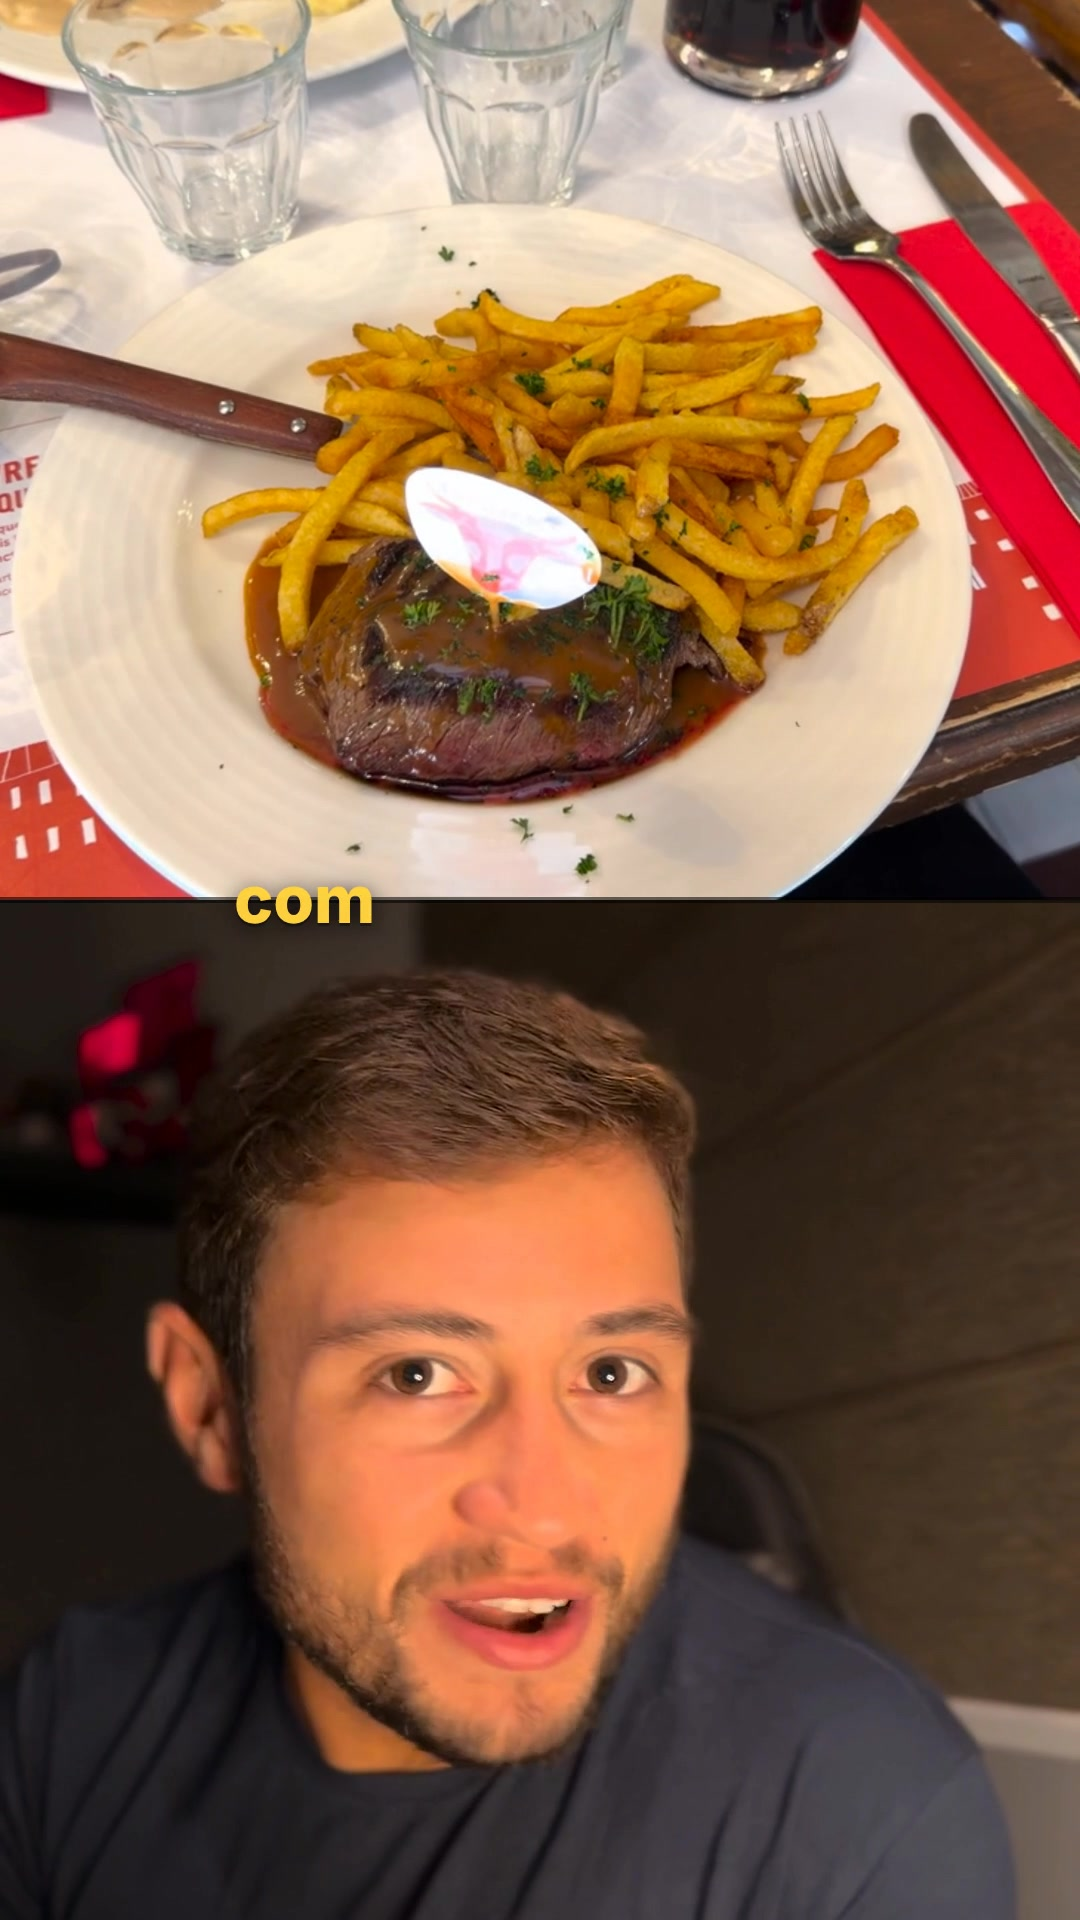
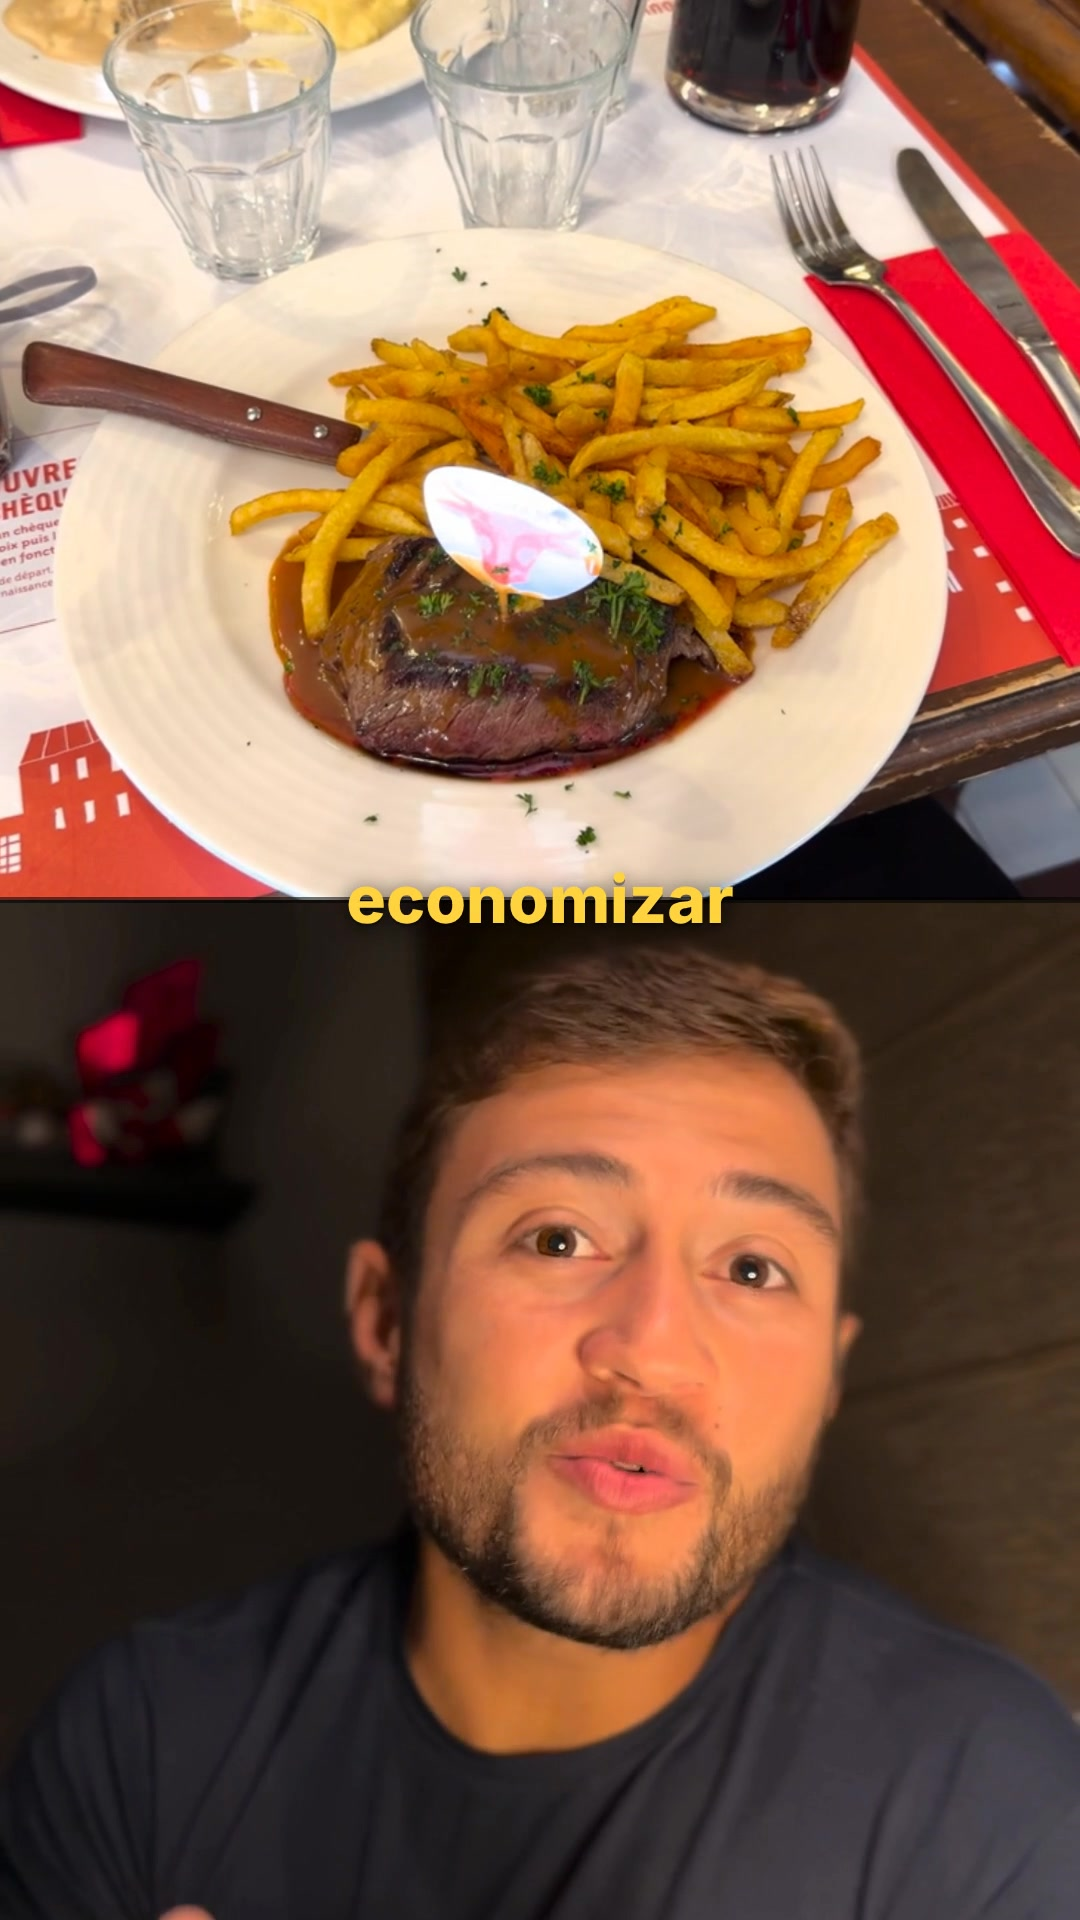
Reel "3 formas de economizar com comida" REV2: capa e legendas do post
Claude-Session: https://claude.ai/code/session_01TJN9nsuiCRpfC3La3sDmsz

diff --git a/reels/comida-3-regras/rev2/legenda_post.md b/reels/comida-3-regras/rev2/legenda_post.md
@@ -1,8 +1,9 @@
-# Legendas · 3 formas de economizar com comida na viagem · REV1
+# Legendas · 3 formas de economizar com comida na viagem · REV2
 
 **CTA único:** seguir (pedido do Diego). A primeira linha reforça o gancho; palavras-chave de busca: economizar, comida, viagem, Europa, restaurante, café da manhã, comida de rua, orçamento.
 **Valores:** os 50 € são exemplo ("vamos supor"), como no vídeo. Nenhum preço real da viagem entra aqui: os valores do acervo estão em `acervo/CORTES_DE_CUSTO.md` e ainda não foram revisados.
-**Imagens:** todas do acervo do Diego (Paris, Lisboa, Amsterdam, Bruges). Sem crédito de terceiros.
+**Imagens:** todas do acervo do Diego (Paris, Barcelona, Amsterdam, Bruxelas, Madrid, Florença). Sem crédito de terceiros.
+**Capa:** `capa_rev2.jpg`, quadro de 0,9 s (prato do bouillon, "economizar" em destaque, rosto aberto).
 
 ## Instagram (Reels)
 
@@ -16,7 +17,7 @@ As 3 formas que eu uso:
 
 Economizar com comida não é comer mal. É saber onde gastar.
 
-📍 O prato do vídeo: Le Petit Bouillon Pharamond, Paris
+📍 O prato do início: Le Petit Bouillon Pharamond, Paris. A paella é de Barcelona.
 
 Me segue pra aprender a viajar melhor sem gastar dinheiro à toa.
 
